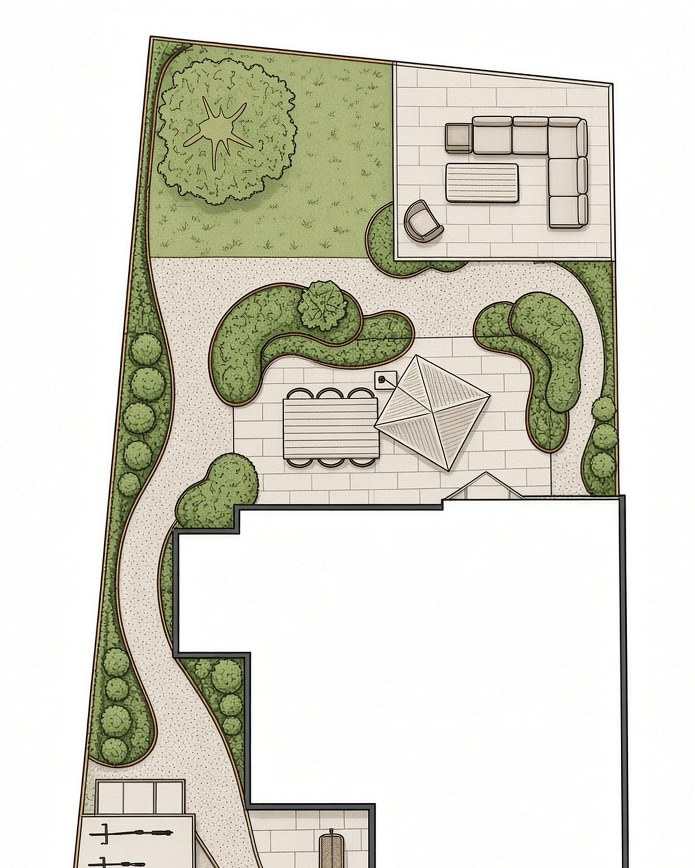
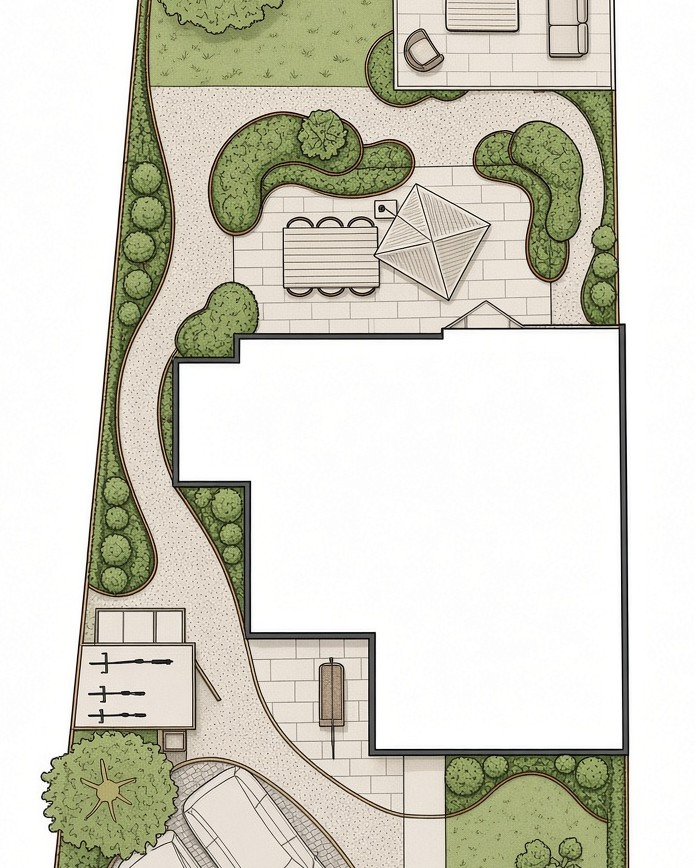
Diensten: foto beplantingsplan, tuinontwerp gecentreerd

diff --git a/index.html b/index.html
@@ -226,13 +226,13 @@
 
     <ol class="diensten" id="dienstenRij" tabindex="0" aria-label="Onze diensten">
       <li class="dienst">
-        <div class="dienst-beeld"><img src="/images/dienst-tuinontwerp.jpg?v=2dd07fb3" width="695" height="868" alt="Getekende plattegrond van een tuinontwerp met terrassen, borders en paden" loading="lazy" decoding="async"></div>
+        <div class="dienst-beeld"><img src="/images/dienst-tuinontwerp.jpg?v=8c70ed13" width="695" height="868" alt="Getekende plattegrond van een tuinontwerp met terrassen, borders en paden" loading="lazy" decoding="async"></div>
         <span class="dienst-nr">01</span>
         <h3>Tuinontwerp</h3>
         <p>Schets, plattegrond en sfeerbeeld, passend bij uw huis en grond.</p>
       </li>
       <li class="dienst">
-        <div class="dienst-beeld" aria-hidden="true"><span>Foto volgt</span></div>
+        <div class="dienst-beeld"><img src="/images/dienst-beplantingsplan.jpg?v=e3da1f6e" width="800" height="1000" alt="Bloeiende border met witte en paarse vaste planten langs een pad van stapstenen" loading="lazy" decoding="async"></div>
         <span class="dienst-nr">02</span>
         <h3>Beplantingsplan</h3>
         <p>Planten die het goed doen op uw bodem en bij uw lichtval.</p>
